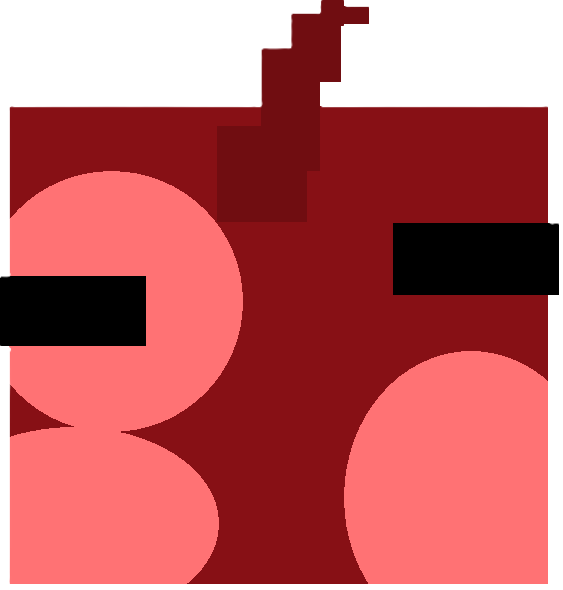
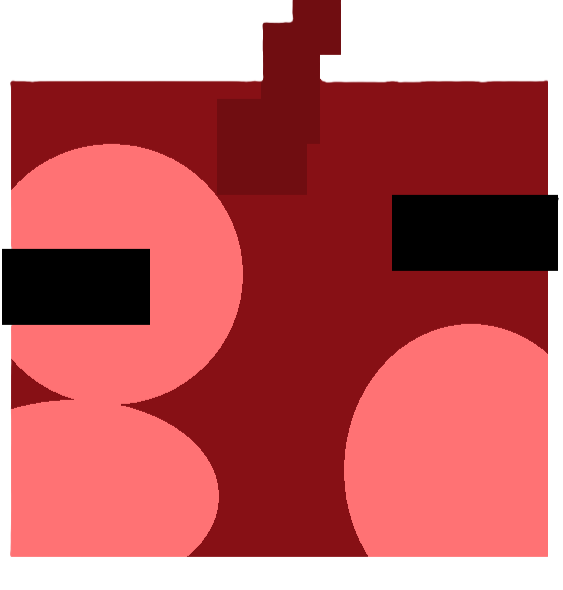
cobra gira

diff --git a/cobra.py b/cobra.py
@@ -6,23 +6,35 @@ vel_y = 0
 
 
 
-def movimento_cobra(mov_x, mov_y):
+def movimento_cobra(mov_x, mov_y, angulo):
     global vel_x, vel_y
+
+    cobra = pygame.image.load("imagens/cobra/kbç_cobra.png").convert()
+    cobra_red = pygame.transform.scale(cobra,(50, 50))
+    cobra_rotacionada = pygame.transform.rotate(cobra_red, angulo)
 
     teclas = pygame.key.get_pressed()
 
     if teclas[pygame.K_a]:
         vel_x = -10
         vel_y = 0
+        angulo = 90
+        cobra_rotacionada = pygame.transform.rotate(cobra_red, angulo)
     if teclas[pygame.K_d]:
         vel_x = 10
         vel_y = 0
+        angulo = -90
+        cobra_rotacionada = pygame.transform.rotate(cobra_red, angulo)
     if teclas[pygame.K_w]:
         vel_x = 0
         vel_y = -10
+        angulo = 0
+        cobra_rotacionada = pygame.transform.rotate(cobra_red, angulo)
     if teclas[pygame.K_s]:
         vel_x = 0
         vel_y = 10
+        angulo = 180
+        cobra_rotacionada = pygame.transform.rotate(cobra_red, angulo)
 
     mov_x = vel_x
     mov_y = vel_y
@@ -30,7 +42,7 @@ def movimento_cobra(mov_x, mov_y):
     
     
 
-    return mov_x, mov_y
+    return mov_x, mov_y, angulo, cobra_rotacionada
 
    
     

diff --git a/fundo.py b/fundo.py
@@ -1,6 +1,7 @@
 import pygame
-from cobra import movimento_cobra
 pygame.init()
+from cobra import movimento_cobra
+
 
 sizeX = 600
 sizeY = 800
@@ -8,6 +9,7 @@ mov_x = 0
 mov_y = 0
 pos_inix = 120
 pos_iniy = 120
+angulo = 0
 
 
 relogio = pygame.time.Clock()
@@ -18,8 +20,7 @@ screen = pygame.display.set_mode((sizeY, sizeX))
 fundo = pygame.image.load("imagens/fundo_grama/fundo.jpg").convert()
 fundo_redimencionado = pygame.transform.scale(fundo, (sizeY, sizeX))
 
-cobra = pygame.image.load("imagens/cobra/kbç_cobra.png").convert()
-cobra_red = pygame.transform.scale(cobra,(50, 50))
+
 
 pygame.display.set_caption("Cobrinha")
 
@@ -34,10 +35,11 @@ while running:
 
     screen.blit(fundo_redimencionado, (0, 0))
 
-    mov_x, mov_y = movimento_cobra(mov_x, mov_y)
+    mov_x, mov_y, angulo, cobra_rotacionada = movimento_cobra(mov_x, mov_y, angulo)
+    
     pos_inix += mov_x
     pos_iniy += mov_y
-    screen.blit(cobra_red, (pos_inix,pos_iniy))
+    screen.blit(cobra_rotacionada, (pos_inix,pos_iniy))
     print(f"{mov_x}{mov_y}")
         
     pygame.display.flip()
